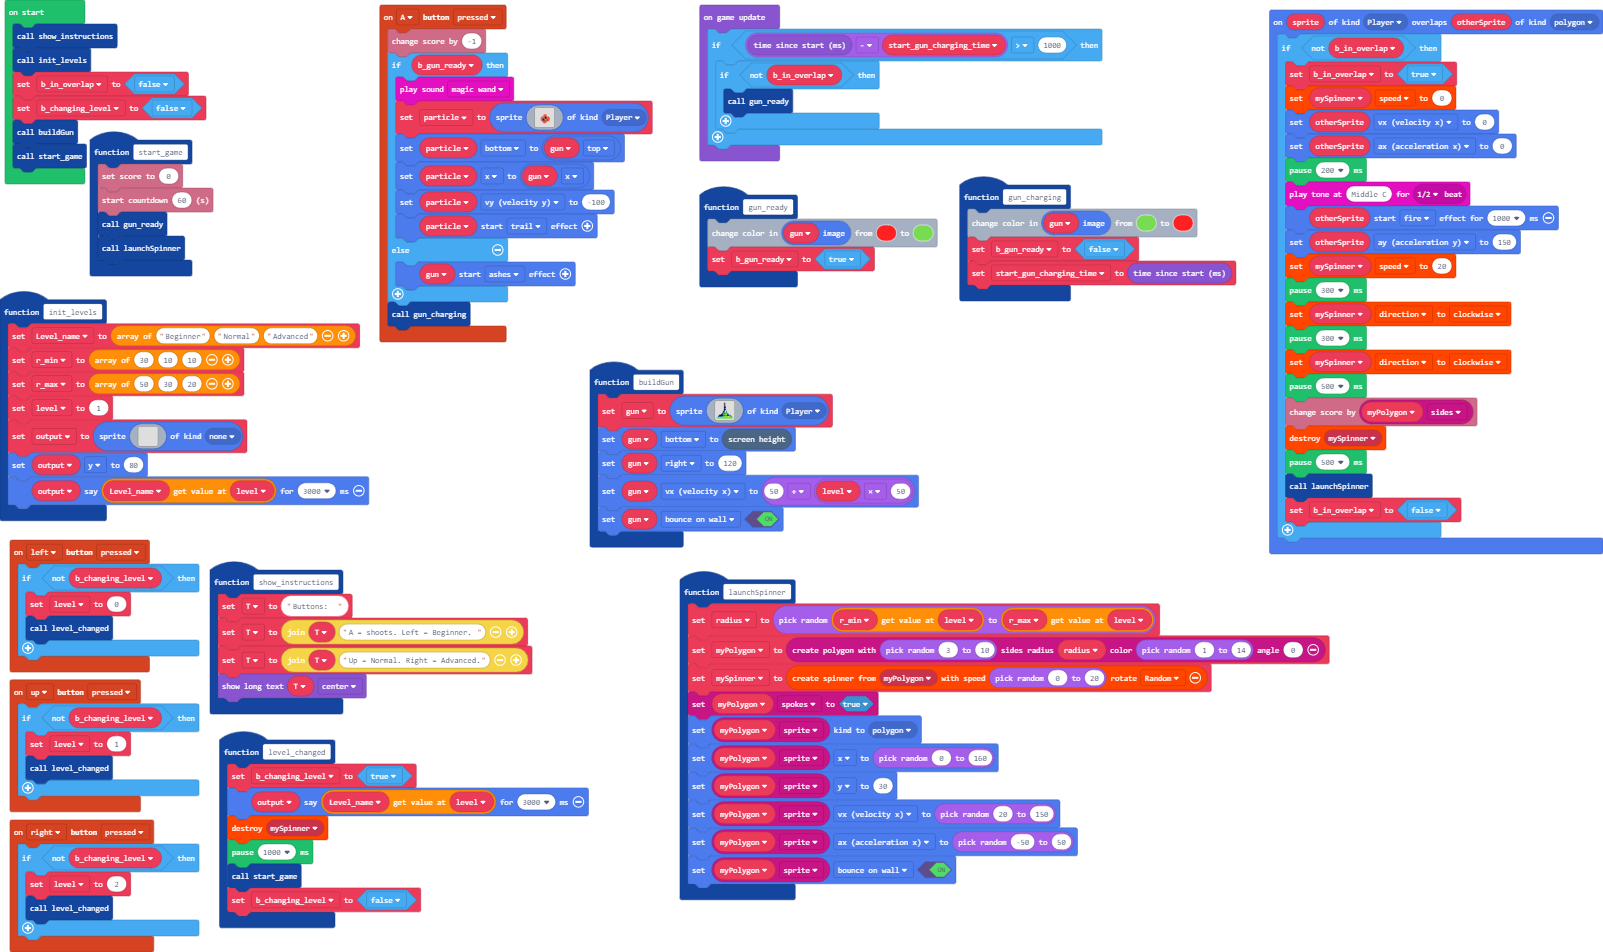
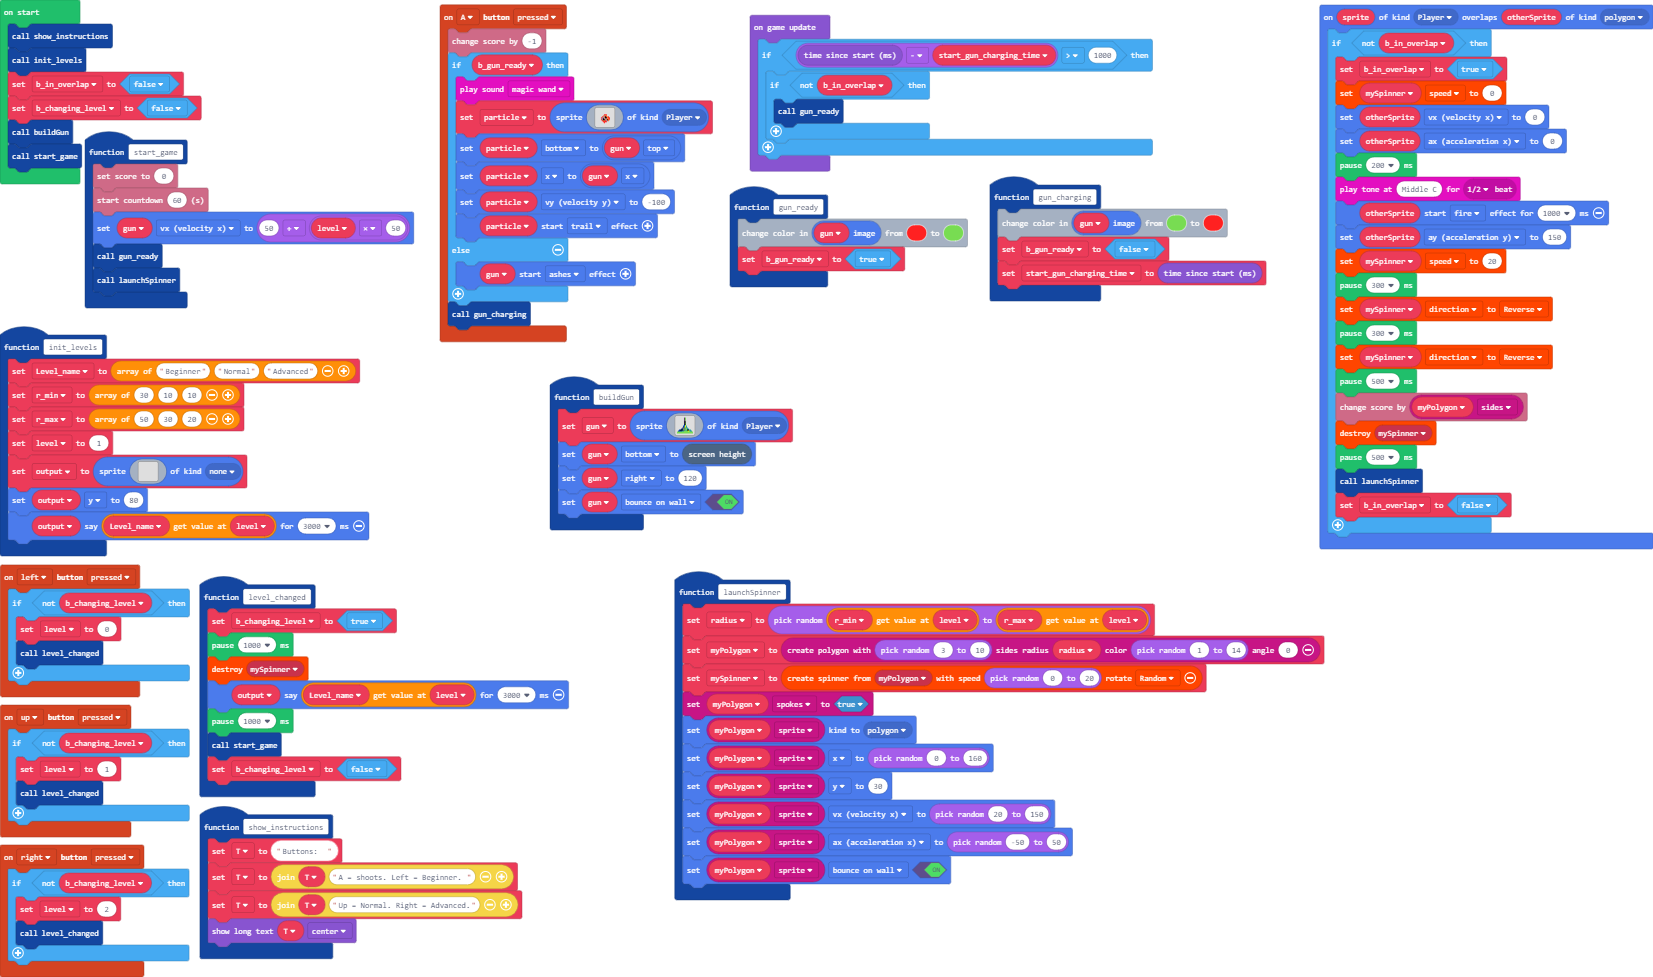
Update main.blocks, main.ts

diff --git a/main.ts b/main.ts
@@ -23,7 +23,6 @@ function buildGun () {
 `, SpriteKind.Player)
     gun.bottom = scene.screenHeight()
     gun.right = 120
-    gun.vx = 50 + level * 50
     gun.setFlag(SpriteFlag.BounceOnWall, true)
 }
 function init_levels () {
@@ -36,12 +35,6 @@ function init_levels () {
 `, SpriteKind.none)
     output.y = 80
     output.say(Level_name[level], 3000)
-}
-function show_instructions () {
-    T = "Buttons:  "
-    T = "" + T + "A = shoots. Left = Beginner. "
-    T = "" + T + "Up = Normal. Right = Advanced."
-    game.showLongText(T, DialogLayout.Center)
 }
 function gun_charging () {
     gun.image.replace(7, 2)
@@ -69,8 +62,15 @@ function launchSpinner () {
 function start_game () {
     info.setScore(0)
     info.startCountdown(60)
+    gun.vx = 50 + level * 50
     gun_ready()
     launchSpinner()
+}
+function show_instructions () {
+    T = "Buttons:  "
+    T = "" + T + "A = shoots. Left = Beginner. "
+    T = "" + T + "Up = Normal. Right = Advanced."
+    game.showLongText(T, DialogLayout.Center)
 }
 controller.A.onEvent(ControllerButtonEvent.Pressed, function () {
     info.changeScoreBy(-1)
@@ -111,8 +111,9 @@ controller.right.onEvent(ControllerButtonEvent.Pressed, function () {
 })
 function level_changed () {
     b_changing_level = true
-    output.say(Level_name[level], 3000)
+    pause(1000)
     spinner.destroySpinner(mySpinner)
+    output.say(Level_name[level], 3000)
     pause(1000)
     start_game()
     b_changing_level = false
@@ -129,9 +130,9 @@ sprites.onOverlap(SpriteKind.Player, SpriteKind.polygon, function (sprite, other
         otherSprite.ay = 150
         mySpinner.speed = 20
         pause(300)
-        mySpinner.direction = Direction.Clockwise
+        mySpinner.direction = Direction.Reverse
         pause(300)
-        mySpinner.direction = Direction.Clockwise
+        mySpinner.direction = Direction.Reverse
         pause(500)
         info.changeScoreBy(myPolygon.sides)
         spinner.destroySpinner(mySpinner)
@@ -151,17 +152,17 @@ controller.up.onEvent(ControllerButtonEvent.Pressed, function () {
     }
 })
 let particle: Sprite = null
+let T = ""
 let mySpinner: spinner.Spinner = null
 let myPolygon: Polygon = null
 let radius = 0
 let start_gun_charging_time = 0
 let b_gun_ready = false
-let T = ""
 let output: Sprite = null
+let level = 0
 let r_max: number[] = []
 let r_min: number[] = []
 let Level_name: string[] = []
-let level = 0
 let gun: Sprite = null
 let b_changing_level = false
 let b_in_overlap = false
